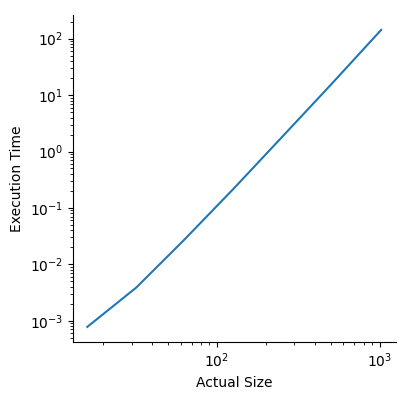
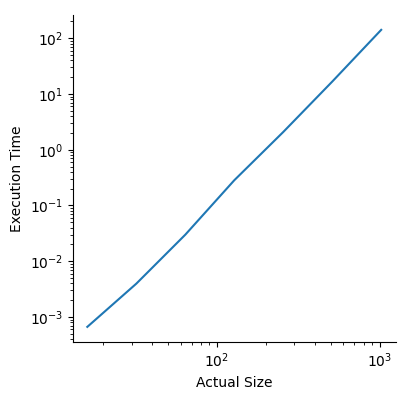
Updated test puissance

diff --git a/TP1/test_puissance.py b/TP1/test_puissance.py
@@ -4,25 +4,48 @@ import pandas as pd
 import numpy as np
 import seaborn as sns
 
-# df = pd.read_csv("data.csv").groupby(['Algorithm', 'Matrix Size']).mean(numeric_only=True).reset_index()
-df = pd.read_csv("leaf_data.csv").groupby(['Leaf Size', 'Matrix Size']).mean(numeric_only=True).reset_index()
-df['Actual Size'] = df['Matrix Size'].apply(lambda val: 2 ** val)
+df = pd.read_csv("data.csv").groupby(['Algorithm', 'Matrix Size']).mean(numeric_only=True).reset_index()
 
-print(df)
+res = df.pivot(index='Matrix Size', columns='Algorithm', values='Execution Time').reset_index()
+res['Actual Size'] = res['Matrix Size'].apply(lambda x: 2 ** x)
 
-leaf_sizes = [2 ** i for i in range(4, 11)]
 
-for size in leaf_sizes:
-    df2 = df.loc[df['Leaf Size'] == size]
+res = res[['Actual Size', 'Classic', 'Strassen', 'Strassen with Leaf']]
 
-    graph = sns.FacetGrid(df2, height=4, aspect=1)
-    graph = graph.map(plt.plot, 'Actual Size', 'Execution Time')
-    graph.set(xscale='log')
-    graph.set(yscale='log')
-    graph.add_legend()
-    plt.savefig(f'plots/puissance_strassen_leaf_size_{size}.png')
+# plot = sns.lineplot(x='Actual Size', )
+# plot.set(xscale='log')
+# plot.set(yscale='log')
+# plot.add_legend()
+# plt.show()
 
-    plt.close()
+# print(df)
+print(pd.melt(res, ['Actual Size']))
+
+plot = sns.lineplot(x='Actual Size', y='value', hue='Algorithm',
+             data=pd.melt(res, ['Actual Size']))
+
+plot.set(xscale='log')
+plot.set(yscale='log')
+
+plt.savefig("plots/puissance_combined.png")
+
+exit()
+# df = pd.read_csv("leaf_data.csv").groupby(['Leaf Size', 'Matrix Size']).mean(numeric_only=True).reset_index()
+# df['Actual Size'] = df['Matrix Size'].apply(lambda val: 2 ** val)
+
+# leaf_sizes = [2 ** i for i in range(4, 11)]
+
+# for size in leaf_sizes:
+#     df2 = df.loc[df['Leaf Size'] == size]
+
+#     graph = sns.FacetGrid(df2, height=4, aspect=1)
+#     graph = graph.map(plt.plot, 'Actual Size', 'Execution Time')
+#     graph.set(xscale='log')
+#     graph.set(yscale='log')
+#     graph.add_legend()
+#     plt.savefig(f'plots/puissance_strassen_leaf_size_{size}.png')
+
+#     plt.close()
 
 # classic = df.loc[df['Algorithm'] == 'Classic']
 

diff --git a/TP1/main.py b/TP1/main.py
@@ -19,23 +19,23 @@ if __name__ == "__main__":
         A = parse_matrix(f"data/ex{i}_0")
         B = parse_matrix(f"data/ex{i}_1")
 
-        multiply_t = timeit.timeit('multiply(A, B)', globals=globals(), number=num_exec) / num_exec
-        strassen_t = timeit.timeit('strassen_multiply(A, B)', globals=globals(), number=num_exec) / num_exec
-        strassen_leaf_t = timeit.timeit('strassen_multiply_leaf(A, B, 64)', globals=globals(), number=num_exec) / num_exec
+        # multiply_t = timeit.timeit('multiply(A, B)', globals=globals(), number=num_exec) / num_exec
+        # strassen_t = timeit.timeit('strassen_multiply(A, B)', globals=globals(), number=num_exec) / num_exec
+        # strassen_leaf_t = timeit.timeit('strassen_multiply_leaf(A, B, 64)', globals=globals(), number=num_exec) / num_exec
 
-        results.extend([
-            ['Classic', i, 0, multiply_t, "n^3"],
-            ['Strassen', i, 0, strassen_t, "n^3"],
-            ['Strassen with Leaf', i, 64, strassen_leaf_t, "n^3"],
-        ])
+        # results.extend([
+        #     ['Classic', i, 0, multiply_t, "n^3"],
+        #     ['Strassen', i, 0, strassen_t, "n^3"],
+        #     ['Strassen with Leaf', i, 64, strassen_leaf_t, "n^3"],
+        # ])
 
-        # seuils = [2 ** i for i in range(4, 11)]
+        seuils = [2 ** i for i in range(4, 11)]
 
-        # for seuil in tqdm(seuils):
-        #     strassen_leaf_t = timeit.timeit(f'strassen_multiply_leaf(A, B, {seuil})', globals=globals(), number=num_exec)
+        for seuil in tqdm(seuils):
+            strassen_leaf_t = timeit.timeit(f'strassen_multiply_leaf(A, B, {seuil})', globals=globals(), number=num_exec) / num_exec
 
-        #     results.extend([
-        #         ['Strassen with Leaf', i, seuil, strassen_leaf_t, "n^3"],
-        #     ])
+            results.extend([
+                ['Strassen with Leaf', i, seuil, strassen_leaf_t, "n^3"],
+            ])
 
     print_results(results[1:], headers)
